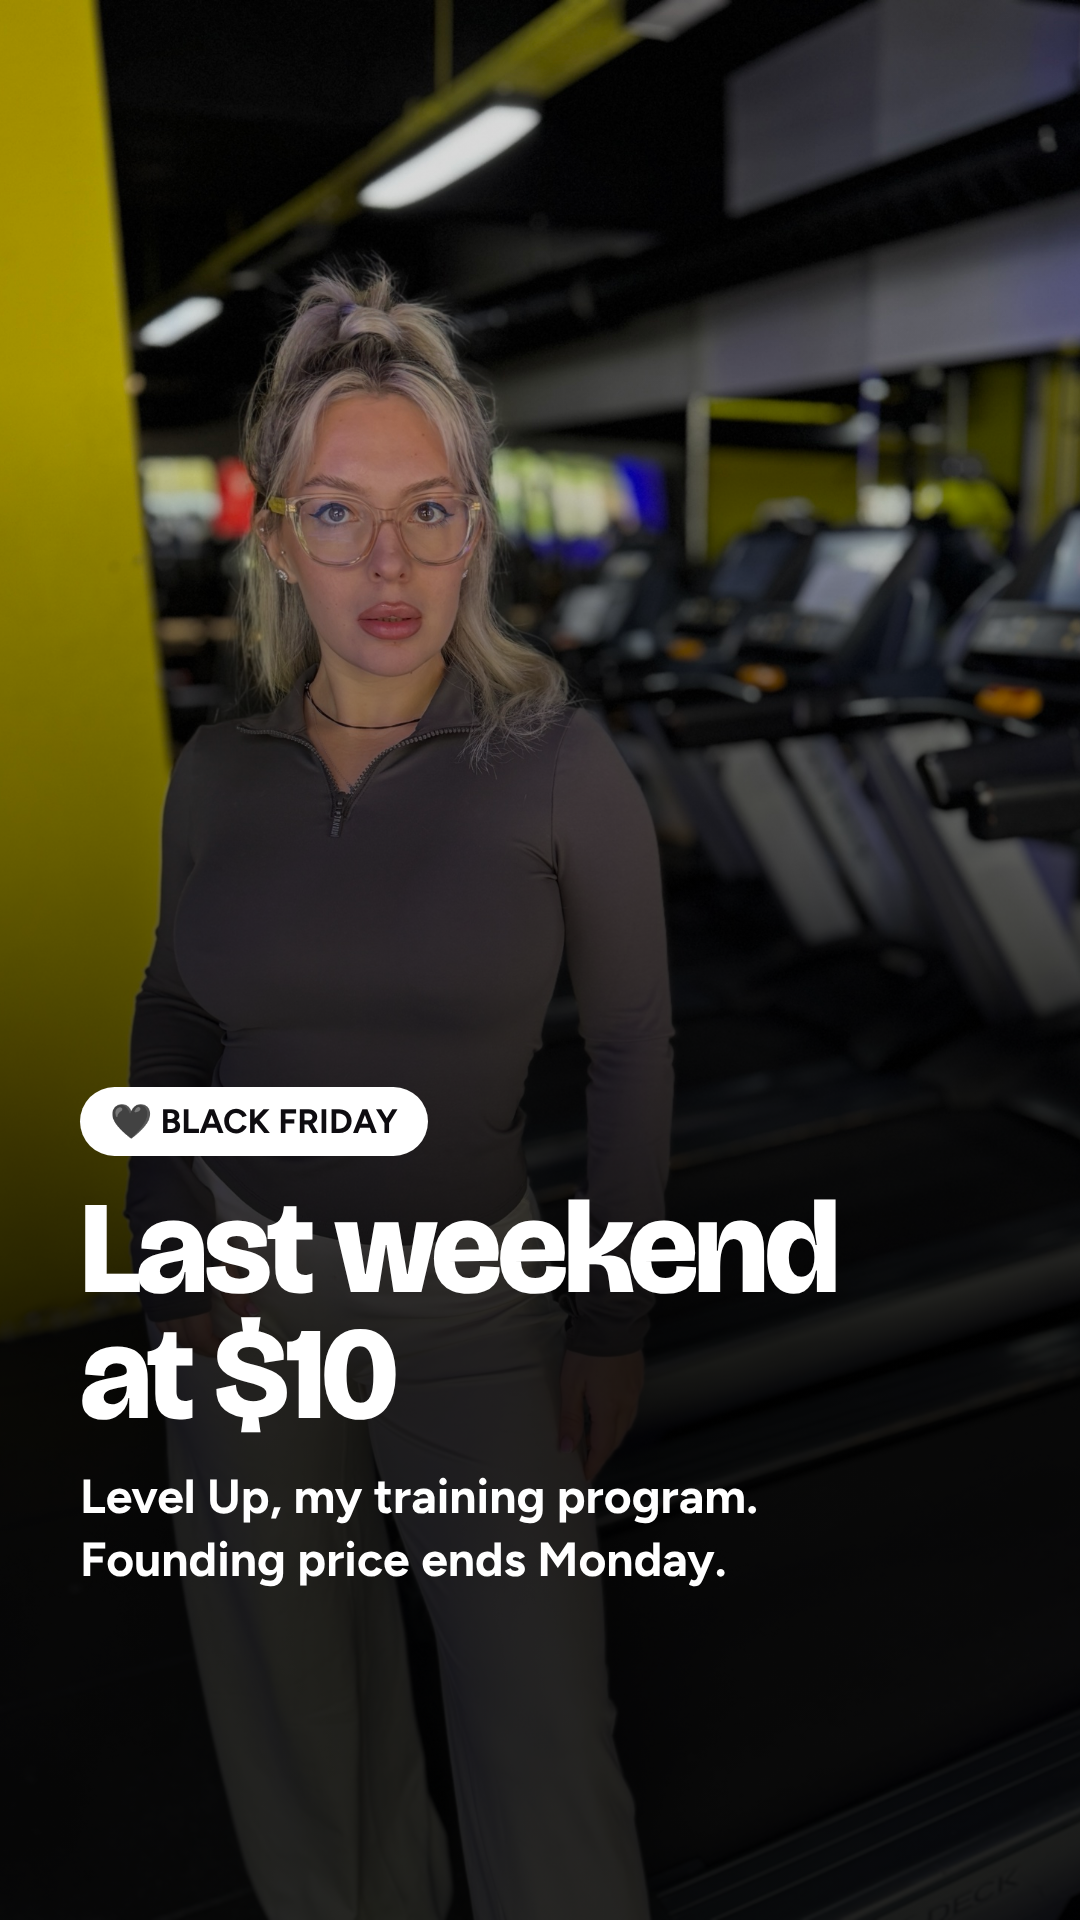
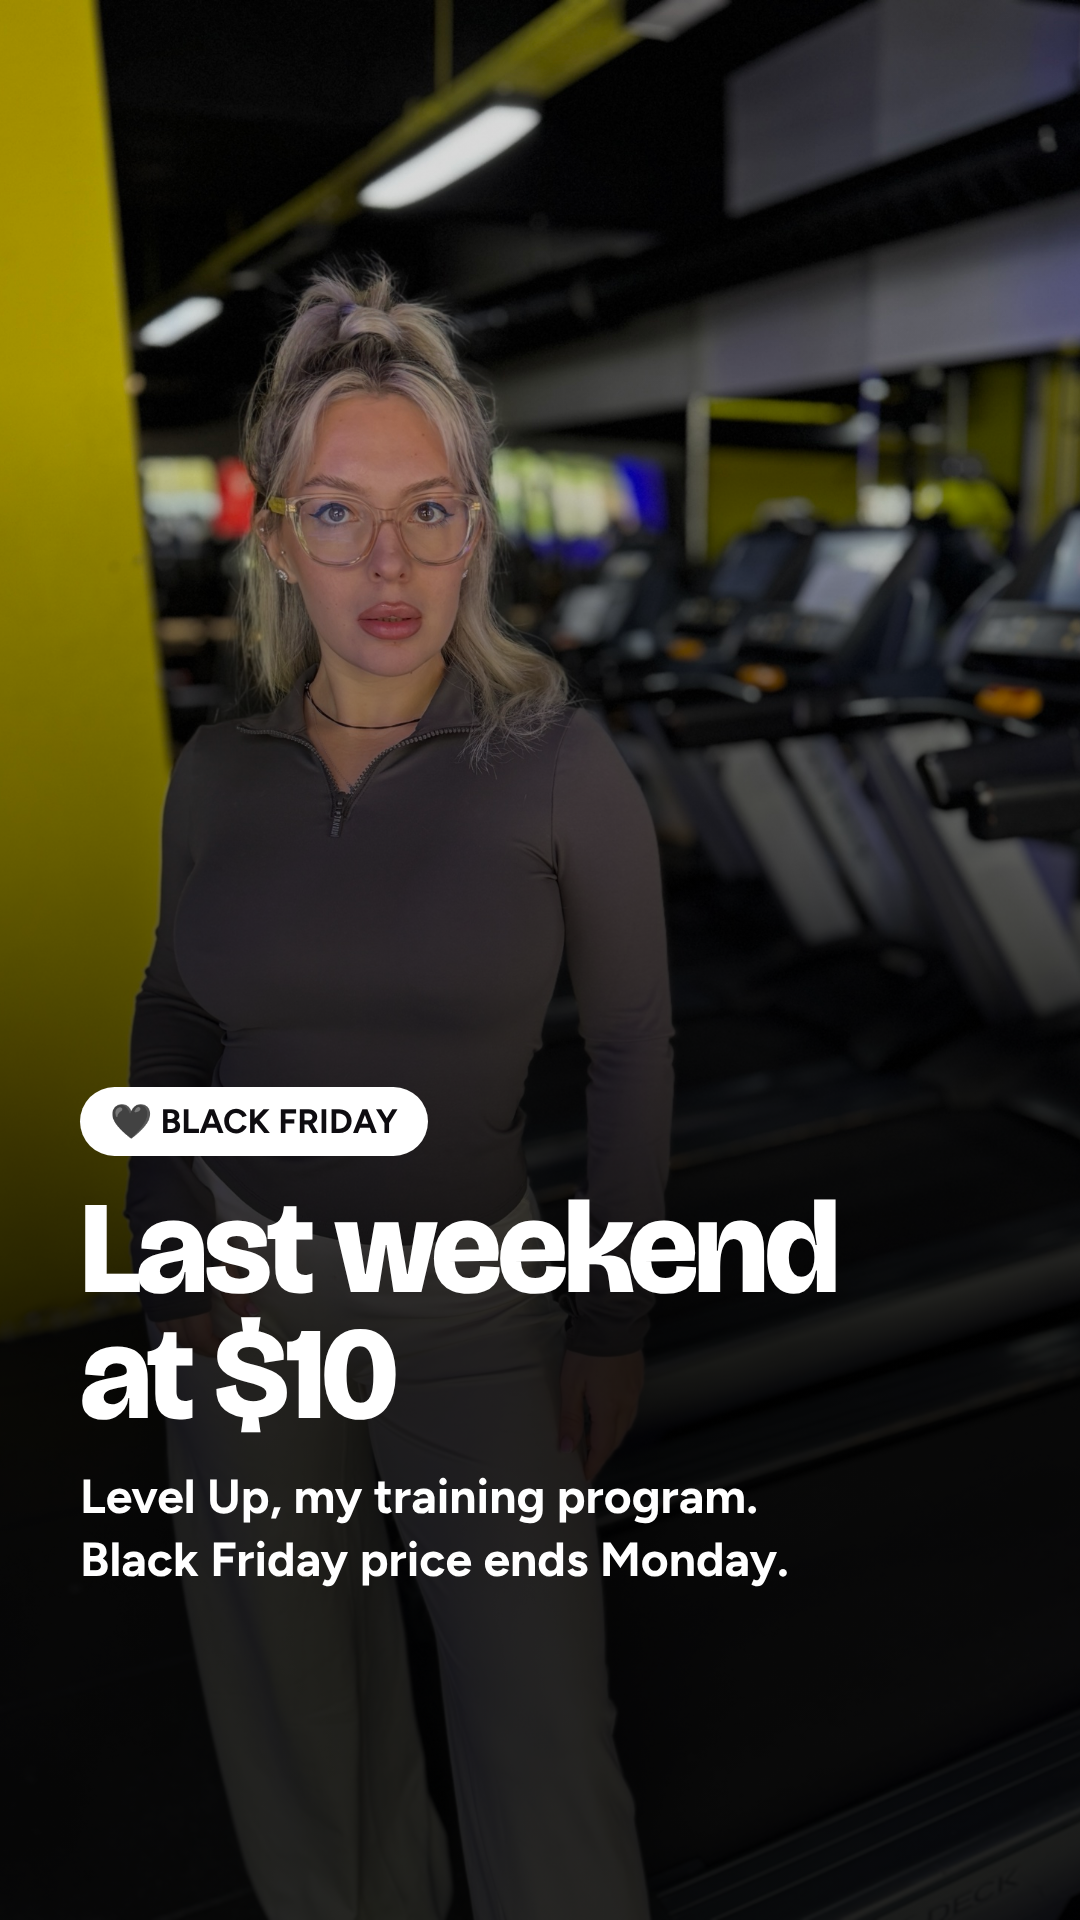
Black Friday: fără „founding price” la Level Up în weekend, doar Black Friday (site și story-uri)
Claude-Session: https://claude.ai/code/session_01AYCYtwFQ1HqKG8gwud9c92

Changed region(s): [[0.0917, 0.7812, 0.7333, 0.8438]]

diff --git a/website/assets/site.js b/website/assets/site.js
@@ -292,15 +292,27 @@
     bf.setAttribute('role', 'region');
     bf.setAttribute('aria-label', 'Black Friday');
     bf.style.cssText = 'background:#141118;color:#fff;text-align:center;padding:10px 16px;font-size:15px;line-height:1.4';
-    bf.innerHTML = '<b style="letter-spacing:.06em">🖤 BLACK FRIDAY</b> · Last weekend at the <b>$10/month</b> founding price. ' +
-      'From Tuesday, 1 December, new members pay $15/month. Join by Monday and keep $10 for as long as you stay. ' +
+    bf.innerHTML = '<b style="letter-spacing:.06em">🖤 BLACK FRIDAY</b> · Level Up for <b>$10/month</b>, this weekend only. ' +
+      'From Tuesday, 1 December, it\'s $15/month. Join by Monday and keep $10 for as long as you stay. ' +
       '<a href="training.html#quiz" style="color:#F8DCE6;font-weight:700;white-space:nowrap">Take the quiz →</a>';
     document.body.insertBefore(bf, document.body.firstChild);
     var join = document.getElementById('r-join');
     if (join) {
       join.textContent = 'Join by Monday · $10/month';
       var nota = join.parentNode && join.parentNode.nextElementSibling;
-      if (nota) nota.insertAdjacentHTML('afterbegin', '<b>Black Friday: last weekend at this price.</b> From 1 December, new members pay $15/month. ');
+      if (nota) nota.insertAdjacentHTML('afterbegin', '<b>Black Friday: this weekend only.</b> From 1 December, new members pay $15/month. ');
+    }
+    // În weekendul de Black Friday nu mai scriem „founding price” la Level Up, doar Black Friday.
+    var BF_TEXTE = [
+      ['Founding price for the first 50 members, kept for as long as you stay.', 'Black Friday price, kept for as long as you stay.'],
+      ['Founding spots for the first 50 members', 'Black Friday: $10/month until Monday'],
+      ['Now open · founding price', 'Black Friday · $10/month'],
+      ['founding price for the first 50 members', 'Black Friday price until Monday']
+    ];
+    var w = document.createTreeWalker(document.body, NodeFilter.SHOW_TEXT, null), nod;
+    while ((nod = w.nextNode())) {
+      for (var k = 0; k < BF_TEXTE.length; k++)
+        if (nod.nodeValue.indexOf(BF_TEXTE[k][0]) !== -1) nod.nodeValue = nod.nodeValue.split(BF_TEXTE[k][0]).join(BF_TEXTE[k][1]);
     }
   }
 })();

diff --git a/brand/lansare/build_story_bf.py b/brand/lansare/build_story_bf.py
@@ -10,7 +10,7 @@ STORIES = [
  ('bf-1-last-weekend', s('''<img class="photo" src="%s" style="object-position:42%% 30%%"><div class="shade" style="background:linear-gradient(180deg,rgba(0,0,0,.15) 20%%,rgba(0,0,0,.85) 70%%)"></div>
   <div style="position:absolute;left:80px;right:80px;bottom:330px">%s
   <h1 class="white" style="font-size:132px;margin-top:30px">Last weekend<br>at $10</h1>
-  <p class="white" style="font-size:48px;font-weight:700;margin:28px 0 0;line-height:1.3">Level Up, my training program.<br>Founding price ends Monday.</p></div>''' % (FOTO, BF))),
+  <p class="white" style="font-size:48px;font-weight:700;margin:28px 0 0;line-height:1.3">Level Up, my training program.<br>Black Friday price ends Monday.</p></div>''' % (FOTO, BF))),
  ('bf-2-price', s(NEGRU + '''<div style="position:absolute;left:80px;right:80px;top:280px;text-align:center">%s
   <h1 class="white" style="font-size:300px;margin-top:40px">$10</h1><p class="white" style="font-size:56px;font-weight:800;margin:0">per month</p>
   <p style="color:#F8DCE6;font-size:46px;font-weight:700;margin:50px 0 0;line-height:1.35">Join by Monday and keep $10<br>for as long as you stay.</p>

diff --git a/LANSARE.md b/LANSARE.md
@@ -99,7 +99,7 @@ Le salvezi într-un **highlight nou: PROGRAM** (primul din stânga).
 **TikTok** programează maximum 10 zile înainte: miercuri 25 pui până pe 5 dec; restul, joi 3 dec.
 
 ## 🖤 Black Friday, 27–30 nov 2026: ultimul weekend la $10
-**Oferta (reală):** prețul de fondator de **$10/lună** se termină **luni 30 nov, 23:59**. De **marți 1 dec**, membrii noi plătesc **$15/lună**. Cine intră până luni păstrează $10 cât timp rămâne. _Nu scriem „era $X, acum $10”: prețul a fost mereu $10, iar o reducere de la un preț inventat e interzisă în UE._
+**Oferta (reală):** prețul de **$10/lună** (Black Friday) se termină **luni 30 nov, 23:59**. De **marți 1 dec**, membrii noi plătesc **$15/lună**. Cine intră până luni păstrează $10 cât timp rămâne. _Nu scriem „era $X, acum $10”: prețul a fost mereu $10, iar o reducere de la un preț inventat e interzisă în UE._
 - **Site:** banda neagră de sus (pe toate paginile) + butonul „Join by Monday · $10/month” pe training.html. Se ascund singure marți la 00:00 (`assets/site.js`, secțiunea 6). Urci zip-ul pe Netlify.
 - **Story-uri:** `brand/lansare/out/bf-1…3` (vin–dum), `bf-4-last-day` (luni). La bf-2 și bf-4: sticker Link spre `payhip.com/b/gWIHB`; la bf-4 și sticker-ul **Countdown** („Founding price ends”, luni 23:59).
 - [ ] **Marți 1 dec, dimineața: prețul nou în Payhip** ($15/lună pentru membrii noi). Verifici înainte în Payhip că membrii existenți rămân la $10 (dacă Payhip schimbă prețul tuturor, faci un plan nou de $15 și îl ascunzi pe cel de $10). Apoi schimbăm pe site „$10” în „$15” (training.html, butonul și textele).
